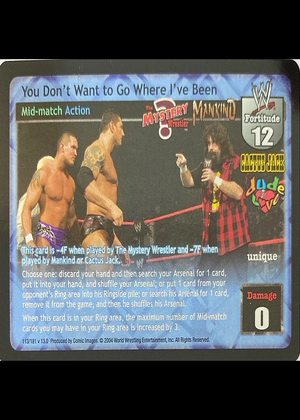
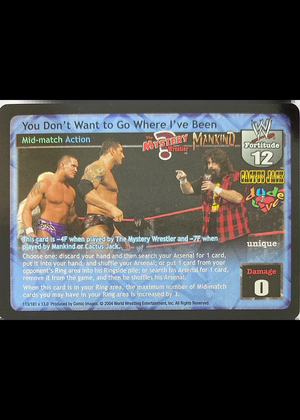
feat: import Vitoco deck cards (2 backlash + 8 arsenal) with processed PNGs

diff --git a/src/data/cards.ts b/src/data/cards.ts
@@ -4574,7 +4574,106 @@ export const SET1509_CARDS: CardDef[] = [
   }),
 ]
 
-export const ALL_CARDS: CardDef[] = [...SUPERSTAR_CARDS, ...GENERIC_CARDS, ...KURT_CARDS, ...KURT_BACKLASH_CARDS, ...CACTUS_CARDS, ...JERICHO_CARDS, ...BOOKER_T_CARDS, ...HHH_CARDS, ...RVD_CARDS, ...AJ_STYLES_CARDS, ...AJ_STYLES_FANSET_CARDS, ...BRAUN_STROWMAN_CARDS, ...CLASSIC_CARDS, ...REVERSAL_EXTRAS_CARDS, ...PEPE_V14_CARDS, ...SET24_08_CARDS, ...MIDMATCH_BACKLASH_CARDS, ...EXTRAS_CARDS, ...OCR_CARDS, ...MIDMATCH_VIRTUAL_CARDS, ...SET909_CARDS, ...MIDMATCH_VIRTUAL_NEW_CARDS, ...SET1109_CARDS, ...SHELTON_BENJAMIN_CARDS, ...SET1509_CARDS].map((c) => applyVerifiedStats(c))
+// ─── Vitoco (backlash + arsenal del mazo) ───
+export const VITOCO_CARDS: CardDef[] = [
+  card({
+    id: 'how-important-is-it',
+    name: 'How Important Is It?',
+    type: 'Action',
+    traits: ['Unique'],
+    fortitude: 10,
+    damage: 0,
+    backlash: 'Mid-match',
+    text: 'When this card is in your Ring area, you cannot play Mid-match cards and during your opponent\'s turn, before his Draw Segment, he may discard 2 cards. If he does not, his Superstar Ability is blank until the start of his next turn.',
+    set: 'Vitoco',
+  }),
+  card({
+    id: 'mind-games',
+    name: 'Mind Games',
+    type: 'Action',
+    traits: ['Unique'],
+    fortitude: 8,
+    damage: 0,
+    text: 'Cannot be reversed if played by Mankind / Cactus Jack / Dude Love. Look at your opponent\'s hand. If you find at least 1 Maneuver card, choose a Maneuver card and your opponent discards the chosen card. Search his Arsenal and put all copies of that card into his Ringside pile. Your opponent then shuffles his Arsenal.',
+    set: 'Vitoco',
+  }),
+  card({
+    id: 'im-hardcore-im-hardcore',
+    name: "I'm Hardcore! I'm Hardcore!",
+    type: 'Action',
+    traits: ['Unique'],
+    fortitude: 6,
+    damage: 0,
+    text: 'Cannot be reversed when played by Cactus Jack or The Mystery Wrestler. Search your Arsenal for 1 Foreign Object card, reveal it to your opponent, put it into your hand, and shuffle your Arsenal. When this card is in your Ring area, your Foreign Object cards are -4F. When this card is in your Ringside pile, during your turn you may discard 3 cards and then put this card into your hand.',
+    set: 'Vitoco',
+  }),
+  card({
+    id: 'dem-damn-dudleyz',
+    name: 'Dem Damn Dudleyz!',
+    type: 'Action',
+    traits: ['Foreign Object', 'Run-in', 'Throwback'],
+    fortitude: 3,
+    damage: 0,
+    text: 'Search your Arsenal for 1 Foreign Object, reveal it to your opponent, put it into your hand, and shuffle your Arsenal.',
+    set: 'Vitoco',
+  }),
+  card({
+    id: 'recover-again',
+    name: 'Recover Again',
+    type: 'Action',
+    fortitude: 6,
+    damage: 0,
+    text: 'This card is -2F when the card titled Recovery is in your Ring area. Shuffle up to 4 cards from your Ringside pile into your Arsenal and draw 1 card. Discard 1 card unless the card titled Recovery is in your Ring area.',
+    set: 'Vitoco',
+  }),
+  card({
+    id: 'struck-by-a-kendo-stick',
+    name: 'Struck by a Kendo Stick',
+    type: 'Maneuver',
+    subtypes: ['Strike'],
+    traits: ['Foreign Object'],
+    fortitude: 6,
+    damage: 5,
+    text: 'Cannot be reversed by the cards titled Elbow to the Face, Double Digits, or Triple H\'s Reverse Neck Breaker.',
+    set: 'Vitoco',
+  }),
+  card({
+    id: 'struck-by-a-kendo-stick-tb',
+    name: 'Struck by a Kendo Stick',
+    type: 'Maneuver',
+    subtypes: ['Strike'],
+    traits: ['Foreign Object', 'Throwback'],
+    fortitude: 3,
+    damage: 7,
+    text: 'When successfully played, search your Arsenal for 1 Foreign Object card, reveal it to your opponent, put it into your hand, and shuffle your Arsenal.',
+    set: 'Vitoco',
+  }),
+  card({
+    id: 'overhand-chairshot',
+    name: 'Overhand Chairshot',
+    type: 'Maneuver',
+    subtypes: ['Strike'],
+    traits: ['Multi', 'Unique', 'Foreign Object', 'Heel'],
+    brand: 'Raw',
+    fortitude: 5,
+    damage: 5,
+    text: 'Cannot be reversed by the card titled Back Rake. When this card is in your Ring area, you may put this card into your Ringside pile to reverse any Foreign Object or any card played after the card titled Roll Out of the Ring and end your opponent\'s turn.',
+    set: 'Vitoco',
+  }),
+  card({
+    id: 'struck-by-an-unknown-foreign-object',
+    name: 'Struck by an Unknown Foreign Object',
+    type: 'Maneuver',
+    subtypes: ['Strike'],
+    traits: ['Heel', 'Foreign Object'],
+    fortitude: 12,
+    damage: 8,
+    text: 'Can only be played when the card titled Roll Out of the Ring is in any Ring area. When successfully played, put up to 2 non-Maneuver cards from your opponent\'s Ring area into his Ringside pile. If he has an Enforcer revealed, he also chooses 1 different Enforcer.',
+    set: 'Vitoco',
+  }),
+]
+
+export const ALL_CARDS: CardDef[] = [...SUPERSTAR_CARDS, ...GENERIC_CARDS, ...KURT_CARDS, ...KURT_BACKLASH_CARDS, ...CACTUS_CARDS, ...JERICHO_CARDS, ...BOOKER_T_CARDS, ...HHH_CARDS, ...RVD_CARDS, ...AJ_STYLES_CARDS, ...AJ_STYLES_FANSET_CARDS, ...BRAUN_STROWMAN_CARDS, ...CLASSIC_CARDS, ...REVERSAL_EXTRAS_CARDS, ...PEPE_V14_CARDS, ...SET24_08_CARDS, ...MIDMATCH_BACKLASH_CARDS, ...EXTRAS_CARDS, ...OCR_CARDS, ...MIDMATCH_VIRTUAL_CARDS, ...SET909_CARDS, ...MIDMATCH_VIRTUAL_NEW_CARDS, ...SET1109_CARDS, ...SHELTON_BENJAMIN_CARDS, ...SET1509_CARDS, ...VITOCO_CARDS].map((c) => applyVerifiedStats(c))
 
 /** Convenience lookup. */
 const index = new Map<string, CardDef>()

diff --git a/scripts/process_vitoco.py b/scripts/process_vitoco.py
@@ -1,0 +1,144 @@
+#!/usr/bin/env python3
+"""Process Vitoco.docx card images: crop to card bounds, remove black
+background/borders, resize to 300x420 PNGs for public/cards/.
+
+Sources in Decks/Vitoco_extracted/word/media (all 610x610 RGBA scans):
+
+    Backlash deck (page 1, landscape on black):
+        image1  -> You Don't Want to Go Where I've Been  (refresh existing PNG)
+        image2  -> How Important Is It?                  (new)
+    Arsenal (portrait):
+        image3  -> mind-games
+        image4  -> im-hardcore-im-hardcore
+        image5  -> dem-damn-dudleyz
+        image6  -> recover-again
+        image8  -> struck-by-a-kendo-stick-tb   (F3/D7 throwback)
+        image11 -> struck-by-a-kendo-stick      (F6/D5)
+        image12 -> overhand-chairshot
+        image13 -> struck-by-an-unknown-foreign-object
+    Skipped: image7/9/10 Chair Shot (already in game as chair-shot, F10/D10).
+
+Processing matches scripts/fix_set1509_arsenal_pngs.py for portrait cards
+and scripts/process_set15_09.py process_landscape_backlash for landscape.
+"""
+
+import os
+
+from PIL import Image
+
+MEDIA = r'C:\Users\patri\Downloads\raw-deal\Decks\Vitoco_extracted\word\media'
+OUT = r'C:\Users\patri\Downloads\raw-deal\public\cards'
+TARGET_W, TARGET_H = 300, 420
+
+PORTRAIT_CARDS = [
+    ('image3.png', 'mind-games'),
+    ('image4.png', 'im-hardcore-im-hardcore'),
+    ('image5.png', 'dem-damn-dudleyz'),
+    ('image6.png', 'recover-again'),
+    ('image8.png', 'struck-by-a-kendo-stick-tb'),
+    ('image11.png', 'struck-by-a-kendo-stick'),
+    ('image12.png', 'overhand-chairshot'),
+    ('image13.png', 'struck-by-an-unknown-foreign-object'),
+]
+
+BACKLASH_CARDS = [
+    ('image1.png', 'you-dont-want-to-go-where-ive-been'),
+    ('image2.png', 'how-important-is-it'),
+]
+
+
+def detect_card_bbox(img):
+    """Detect card boundary using bright pixel detection."""
+    pixels = img.load()
+    w, h = img.size
+    threshold = 30
+
+    top = bottom = left = right = None
+
+    for y in range(h):
+        bright_count = sum(1 for x in range(w) if any(pixels[x, y][c] > threshold for c in range(3)))
+        if bright_count > w * 0.15:
+            if top is None:
+                top = y
+            bottom = y
+
+    for x in range(w):
+        bright_count = sum(1 for y in range(h) if any(pixels[x, y][c] > threshold for c in range(3)))
+        if bright_count > h * 0.15:
+            if left is None:
+                left = x
+            right = x
+
+    if top is not None and left is not None:
+        top = max(0, top - 2)
+        left = max(0, left - 2)
+        bottom = min(h - 1, bottom + 2)
+        right = min(w - 1, right + 2)
+        return (left, top, right + 1, bottom + 1)
+
+    return None
+
+
+def crop_and_resize(img, target_w, target_h):
+    """Crop to card bounds and resize to fit target, centered on black."""
+    bbox = detect_card_bbox(img)
+    if bbox:
+        img = img.crop(bbox)
+
+    iw, ih = img.size
+    scale = min(target_w / iw, target_h / ih)
+    new_w = int(iw * scale)
+    new_h = int(ih * scale)
+    img = img.resize((new_w, new_h), Image.LANCZOS)
+
+    canvas = Image.new('RGB', (target_w, target_h), (0, 0, 0))
+    offset_x = (target_w - new_w) // 2
+    offset_y = (target_h - new_h) // 2
+    canvas.paste(img, (offset_x, offset_y))
+    return canvas, bbox
+
+
+def process_landscape_backlash(img, target_w, target_h):
+    """Remove black background from landscape card, fit into portrait canvas."""
+    bbox = detect_card_bbox(img)
+    if bbox:
+        img = img.crop(bbox)
+
+    iw, ih = img.size
+    scale = target_w / iw
+    new_w = target_w
+    new_h = int(ih * scale)
+
+    if new_h > target_h:
+        scale = target_h / ih
+        new_w = int(iw * scale)
+        new_h = target_h
+
+    img = img.resize((new_w, new_h), Image.LANCZOS)
+
+    canvas = Image.new('RGB', (target_w, target_h), (0, 0, 0))
+    offset_x = (target_w - new_w) // 2
+    offset_y = (target_h - new_h) // 2
+    canvas.paste(img, (offset_x, offset_y))
+    return canvas, bbox
+
+
+print('Processing portrait arsenal cards...')
+for filename, slug in PORTRAIT_CARDS:
+    src = os.path.join(MEDIA, filename)
+    dst = os.path.join(OUT, f'{slug}.png')
+    img = Image.open(src).convert('RGB')
+    result, bbox = crop_and_resize(img, TARGET_W, TARGET_H)
+    result.save(dst)
+    print(f'OK {slug}: {filename} bbox={bbox} -> {result.size[0]}x{result.size[1]} ({os.path.getsize(dst)} bytes)')
+
+print('\nProcessing landscape backlash cards...')
+for filename, slug in BACKLASH_CARDS:
+    src = os.path.join(MEDIA, filename)
+    dst = os.path.join(OUT, f'{slug}.png')
+    img = Image.open(src).convert('RGB')
+    result, bbox = process_landscape_backlash(img, TARGET_W, TARGET_H)
+    result.save(dst)
+    print(f'OK {slug}: {filename} bbox={bbox} -> {result.size[0]}x{result.size[1]} ({os.path.getsize(dst)} bytes)')
+
+print('\nDone!')
